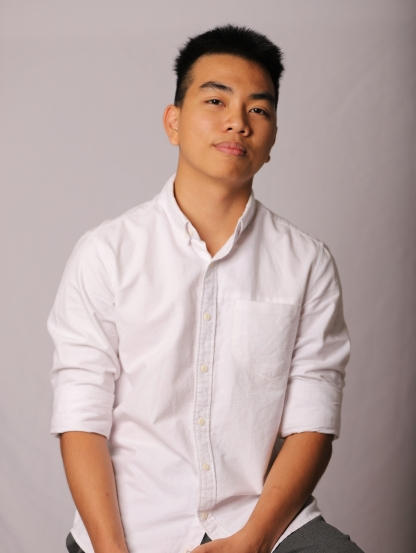
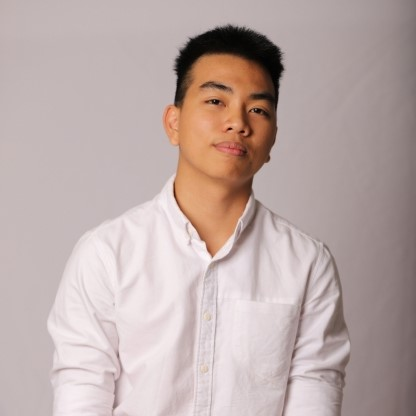
Improve style

diff --git a/src/stylesheets/App.css b/src/stylesheets/App.css
@@ -11,7 +11,7 @@
 .App {
   text-align: center;
   background: var(--light-1);
-  color: var(--text-color-for-light-theme-1);
+  color: black;
   height: 100%;
   min-height: 100vh;
   font-size: var(--font-size-normal);
@@ -51,11 +51,11 @@ br.small {
 
 a, a:visited {
   text-decoration: underline;
-  color: #0d1cc3;
+  color: #091372;
 }
 
 .dark a, .dark a:visited {
-  color: #4955dc;
+  color: #a9adff;
 }
 
 .left.intro {
@@ -72,8 +72,10 @@ a, a:visited {
   transform: translate(0, -50%);
 }
 
-.background-color-2 {
-  background: var(--secondary);
+@layer components {
+  .background-color-2 {
+    @apply bg-primary-10;
+  }
 }
 
 .text-align-left {
@@ -109,10 +111,10 @@ button:hover {
   margin-bottom: 0px;
   margin-left: auto;
   margin-right: auto;
-  padding-left: 15px;
-  padding-right: 15px;
-  padding-top: 15px;
-  padding-bottom: 15px;
+  padding-left: 4rem;
+  padding-right: 4rem;
+  padding-top: 2rem;
+  padding-bottom: 2rem;
   max-width: 982px;
   text-align: left;
 }
@@ -122,39 +124,37 @@ button:hover {
   grid-template-columns: repeat(12, 1fr);
 }
 
+@media (max-width: 500px) {
+  .container {
+    padding-left: 2rem; 
+    padding-right: 2rem;
+  }
+}
+
 /* *************************************************** */
 /*                        DARK                         */
 /* *************************************************** */
 .dark .App,
 .dark .navbar-container {
   background: var(--dark-1);
-  color: var(--text-color-for-dark-theme-1);
+  color: white;
 }
 
 .dark .background-color-2 {
   background: var(--dark-2);
 }
 
-
-
 .dark .fade {
   color: var(--black-blue)
 }
 
 .App,
-a,
-a:visited,
-.background-color-2,
-.dark a,
-.dark a:visited,
-.dark .background-color-2,
-.dark .App,
-.dark .navbar-container,
-.navbar-container {
-  transition: background 500ms ease-in-out, color 1000ms ease-in-out;
+a, a:visited, .dark a, .dark a:visited,
+.container, .dark .container,
+body, body.dark,
+.dark .navbar-container, .navbar-container {
+  transition: 300ms ease;
 }
-
-
 
 
 /* ################################################### */
@@ -241,24 +241,10 @@ a:visited,
 }
 
 
-
-/* a.navbar-item:hover {
-  background: var(--primary);
-} */
-
 a.navbar-item.brand {
   font-size: var(--font-size-large);
 }
 
-/* a.navbar-item,
-a.navbar-item:visited {
-  color: var(--text-color-for-light-theme-2);
-} */
-
-/* .dark a.navbar-item,
-.dark a.navbar-item:visited {
-  color: var(--text-color-for-dark-theme-2);
-} */
 
 div.navbar-container {
   margin-left: auto;
@@ -333,6 +319,7 @@ div.navbar-container {
 
 .row.introduction {
   grid-column-gap: 20px;
+  align-items: center;
 }
 
 .portrait {
@@ -342,18 +329,21 @@ div.navbar-container {
 }
 
 .portrait .img-container {
-  width: 291px;
-  height: 387px;
+  width: 260px;
+  height: 260px;
   float: right;
   overflow: hidden;
-  border-radius: 10px;
+  border-radius: 2rem;
+  box-shadow: lab(from #000000 2rem 2rem 2rem);
+  margin: 0 1rem;
 }
 
 .portrait .img-container img {
   width: 100%;
   height: 100%;
-  vertical-align: middle;
+  vertical-align: top;
   position: relative;
+  transform-origin: top;
   transition: transform 0.3s ease;
 }
 
@@ -366,7 +356,7 @@ div.navbar-container {
   text-align: left;
 }
 
-@media (max-width: 800px) {
+@media (max-width: 820px) {
   .bio {
     grid-column: span 12;
     text-align: center;
@@ -382,16 +372,12 @@ div.navbar-container {
     height: 120px;
     border-radius: 10px;
     float: left;
+    transition: transform 0.3s ease;
   }
 
   .img-container img {
     object-fit: cover;
-    object-position: 0 -30%;
-    transform: scale(1.25);
-  }
-
-  .portrait .img-container:hover img {
-    transform: scale(1.35);
+    transform: scale(1.2);
   }
 }
 
@@ -462,6 +448,7 @@ div.navbar-container {
 /* ################################################### */
 
 button#amazing-webpage-button {
+  color: white;
   padding: 15px 50px;
   font-size: var(--font-size-large);
   border-radius: 6px;
@@ -471,70 +458,6 @@ button#amazing-webpage-button {
 button#amazing-webpage-button:hover {
   background-color: var(--secondary);
 }
-
-.project {
-  margin-bottom: 10px;
-  padding-bottom: 10px;
-  border-bottom: 1px solid rgb(187, 187, 187);
-  min-height: 8.5rem;
-  /* +0.5rem from ".project img" */
-}
-
-.project p {
-  text-align: left;
-}
-
-.ppicture {
-  float: left;
-  margin-right: 1rem;
-}
-
-.project img {
-  height: 8rem;
-  width: 8rem;
-  border-radius: 5px;
-  border: 1px solid rgb(202, 202, 202);
-}
-
-.project svg {
-  width: 20px;
-  height: 20px;
-}
-
-.project svg:hover path {
-  fill: var(--purple-1);
-}
-
-.project .description p {
-  margin: 0.1rem auto;
-  text-align: justify;
-}
-
-.project ul {
-  margin: 0.2rem 0;
-}
-
-.project li {
-  padding-left: 0.5rem;
-  margin-left: 8rem;
-}
-
-
-@media (max-width: 500px) {
-  .project .ppicture img {
-    height: 4rem;
-    width: 4rem;
-  }
-}
-
-.dark .project svg path {
-  fill: white;
-}
-
-.dark .project svg:hover path {
-  fill: var(--purple-1);
-}
-
 
 /* ################################################### */
 /* ################################################### */
@@ -682,23 +605,13 @@ input#coolerdate {
 /* Check out here: https://coolors.co/palette/e63946-f1faee-a8dadc-457b9d-1d3557  */
 
 :root {
-  --text-color-for-light-theme-1: #000000;
-  --text-color-for-light-theme-2: #1e2030;
   --light-1: #f6faff;
   --light-2: #e2e2e6;
 
-  --text-color-for-dark-theme-1: #e6e6e6;
-  --text-color-for-dark-theme-2: #a7abca;
   --dark-1: #252424;
   --dark-2: #0b121b;
-  --dark-3: #070707;
 
-  --text-light: #050315;
-  --text-lighter: #121119;
-  --background-light: #f6faff;
-
-
-  --primary: #2E51A1;
+  --primary: #3fa8f9;
   --secondary: #137DCE;
   --accent: #137DCE;
   --accent-darker: #26201d;
@@ -713,13 +626,8 @@ input#coolerdate {
   --light-pink-1: #d984d9;
   --light-pink-2: #FFAFFF;
 
-  --dark-background: #003060;
-  --dark-xbackground-2: #055C9D;
-  --dark-xbackground-3: #003B73;
-  --dark-xbackground-4: rgb(28, 77, 126);
   --black-blue: #598fbf;
   --black-blue-2: #0f5f9c;
-  --bs-card-color: #111111;
 
   --nav-link-padding: 0.5rem;
   --nav-link-padding-side: 1rem;
@@ -728,6 +636,4 @@ input#coolerdate {
   --font-size-normal: 18px;
   --font-size-large: 24px;
   --font-size-xlarge: 30px;
-
-  --bs-body-color: var(--white);
 }

diff --git a/tailwind.config.js b/tailwind.config.js
@@ -5,11 +5,18 @@ module.exports = {
 	theme: {
 		extend: {
 			colors: {
-				primary: "#3358AF",
-				secondary: "#137DCE",
+				primary: "#3fa8f9",
+				primary: {
+					DEFAULT: "#3fa8f9",
+					dark: "#0670C1",
+					10: "#3FA8F91A",
+					90: "#3FA8F9E6"
+				},
+				secondary: {
+					DEFAULT: "#137DCE",
+					dark: "#329bec"
+				},
 				accent: "#274cf5",
-				'primary-dark': '#5176cd',
-				'secondary-light': '#329bec',
 			},
 			textColor: {
 				"custom-black": "#0C1717",

diff --git a/src/components/NavBar.js b/src/components/NavBar.js
@@ -22,11 +22,6 @@ const ThemeIcon = () => {
 }
 
 const NavBar = () => {
-	const [darkThemeEnabled, changeTheme] = useDarkMode()
-	const handleThemeButton = () => {
-		changeTheme(!darkThemeEnabled)
-	}
-
 	const hamburgerMenuSvg = (
 		<svg
 			class="hamburger-menu"
